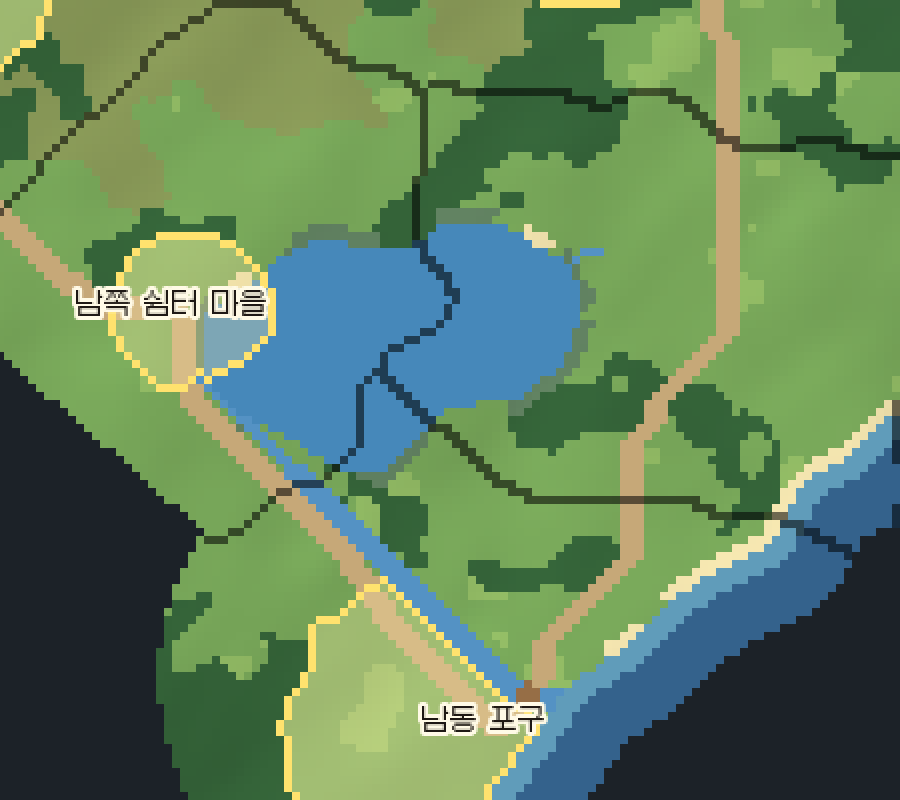
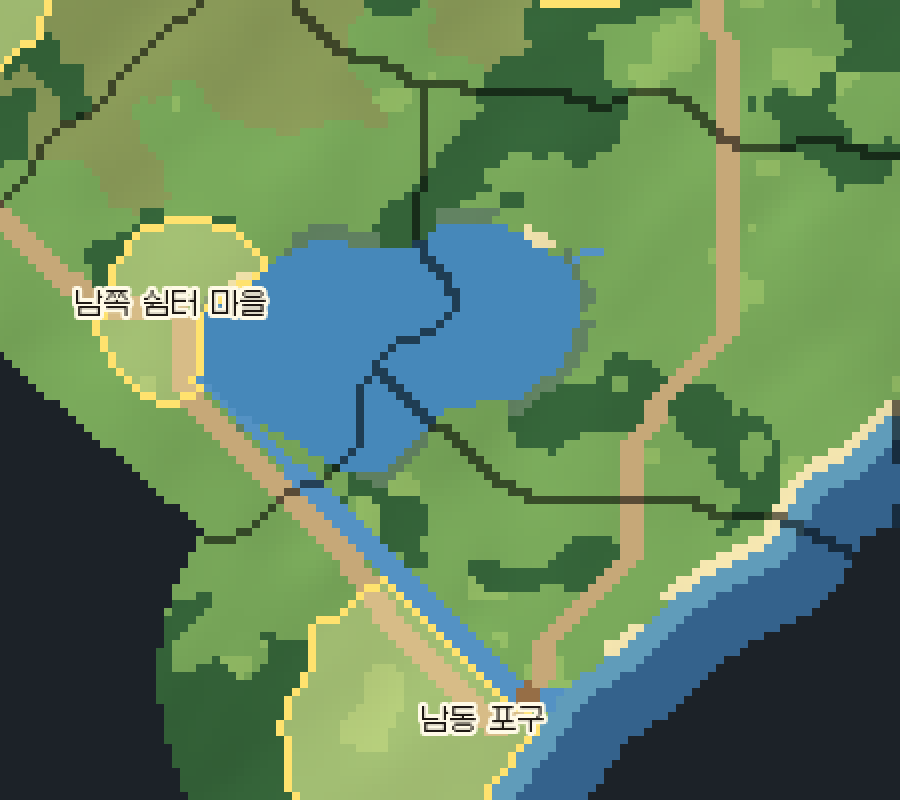
M1 v4: keep village ranges off lake water
Claude-Session: https://claude.ai/code/session_01LeGdCGGAkPbpRa1d2kF6Yd

diff --git a/Tools/WorldLayout/terrain_v3.py b/Tools/WorldLayout/terrain_v3.py
@@ -315,12 +315,12 @@ def build(layout):
                 n=(p[0]+dy,p[1]+dx)
                 if n in seen or not(0<=n[0]<H and 0<=n[1]<W):continue
                 seen.add(n)
-                if not okreg[n] or not land[n] or t[n] in (PEAK,MOUNTAIN,ROCKCOAST,RIVER) or village[n]:continue
+                if not okreg[n] or not land[n] or t[n] in (PEAK,MOUNTAIN,ROCKCOAST,RIVER,LAKE) or village[n]:continue
                 d=math.hypot(n[0]-s[0],n[1]-s[1])
                 heapq.heappush(q,(d*(1+.35*(shape_n[n]-.5))+5*max(0,elev[n]-.5)+2*flat[n],n))
         m=np.zeros((H,W),bool)
         for p in got:m[p]=True
-        m=ndimage.binary_closing(ndimage.binary_opening(m,iterations=1),iterations=2)&land&~river&~np.isin(t,[PEAK,MOUNTAIN])
+        m=ndimage.binary_closing(ndimage.binary_opening(m,iterations=1),iterations=2)&land&~river&~np.isin(t,[PEAK,MOUNTAIN,LAKE])
         village|=m;vlabel[m]=vi
         village_info.append(dict(key=key,label=town['label'],target=target,center=[int(s[1]+X0),int(s[0]+Y0)],
                                  moved=round(math.hypot(s[0]-oy,s[1]-ox),1)))
